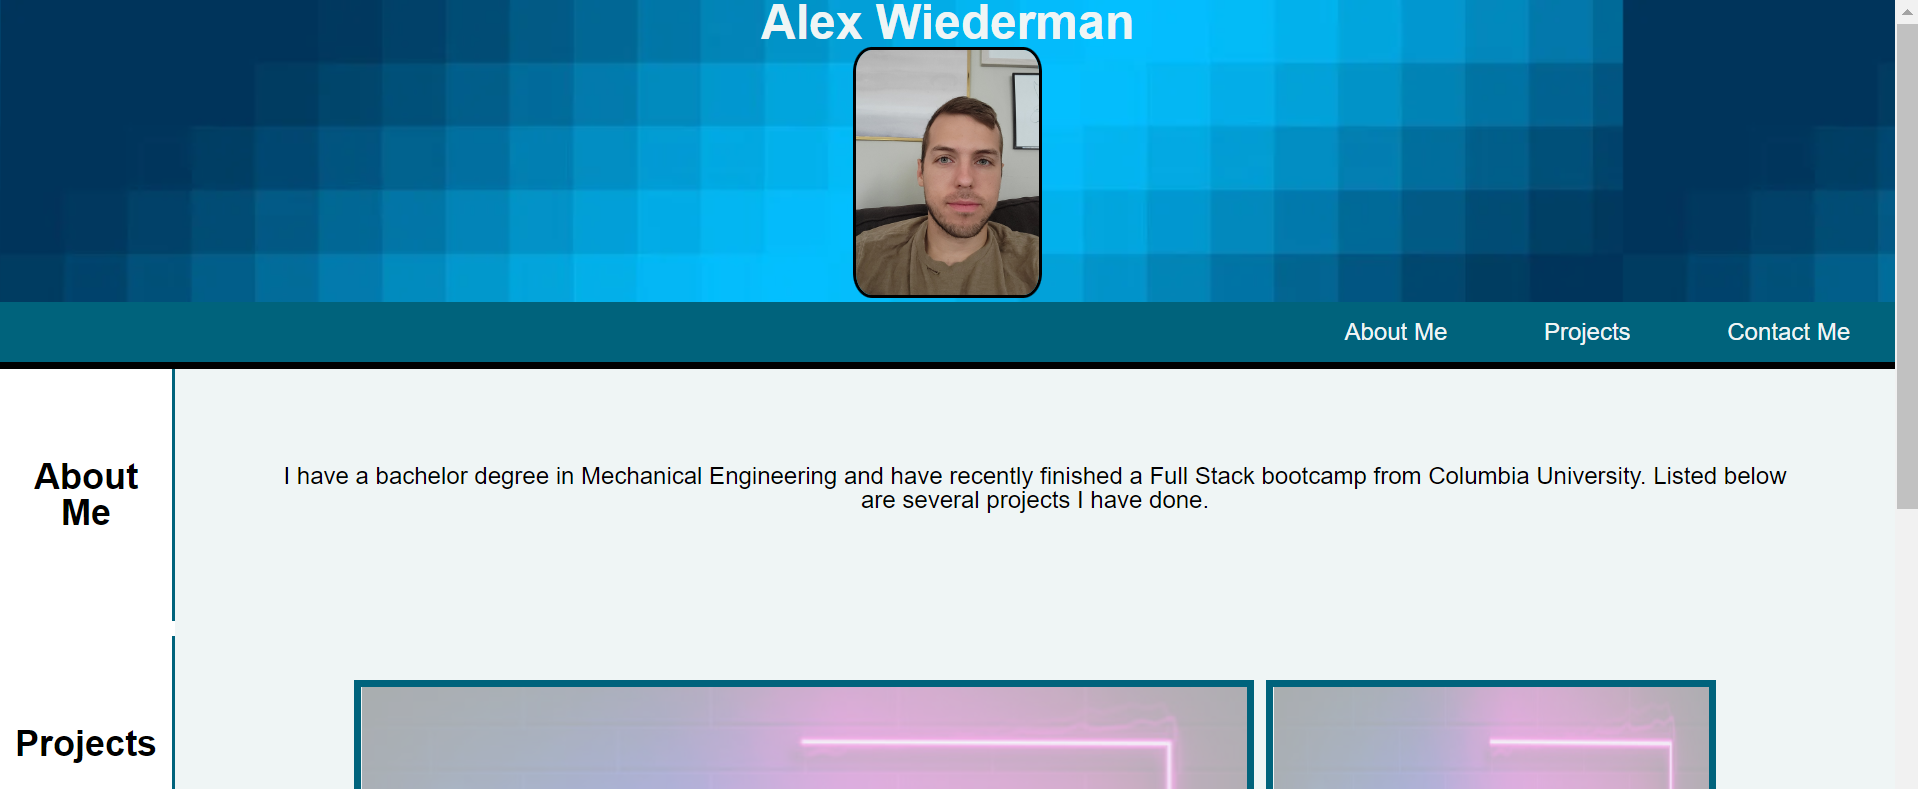
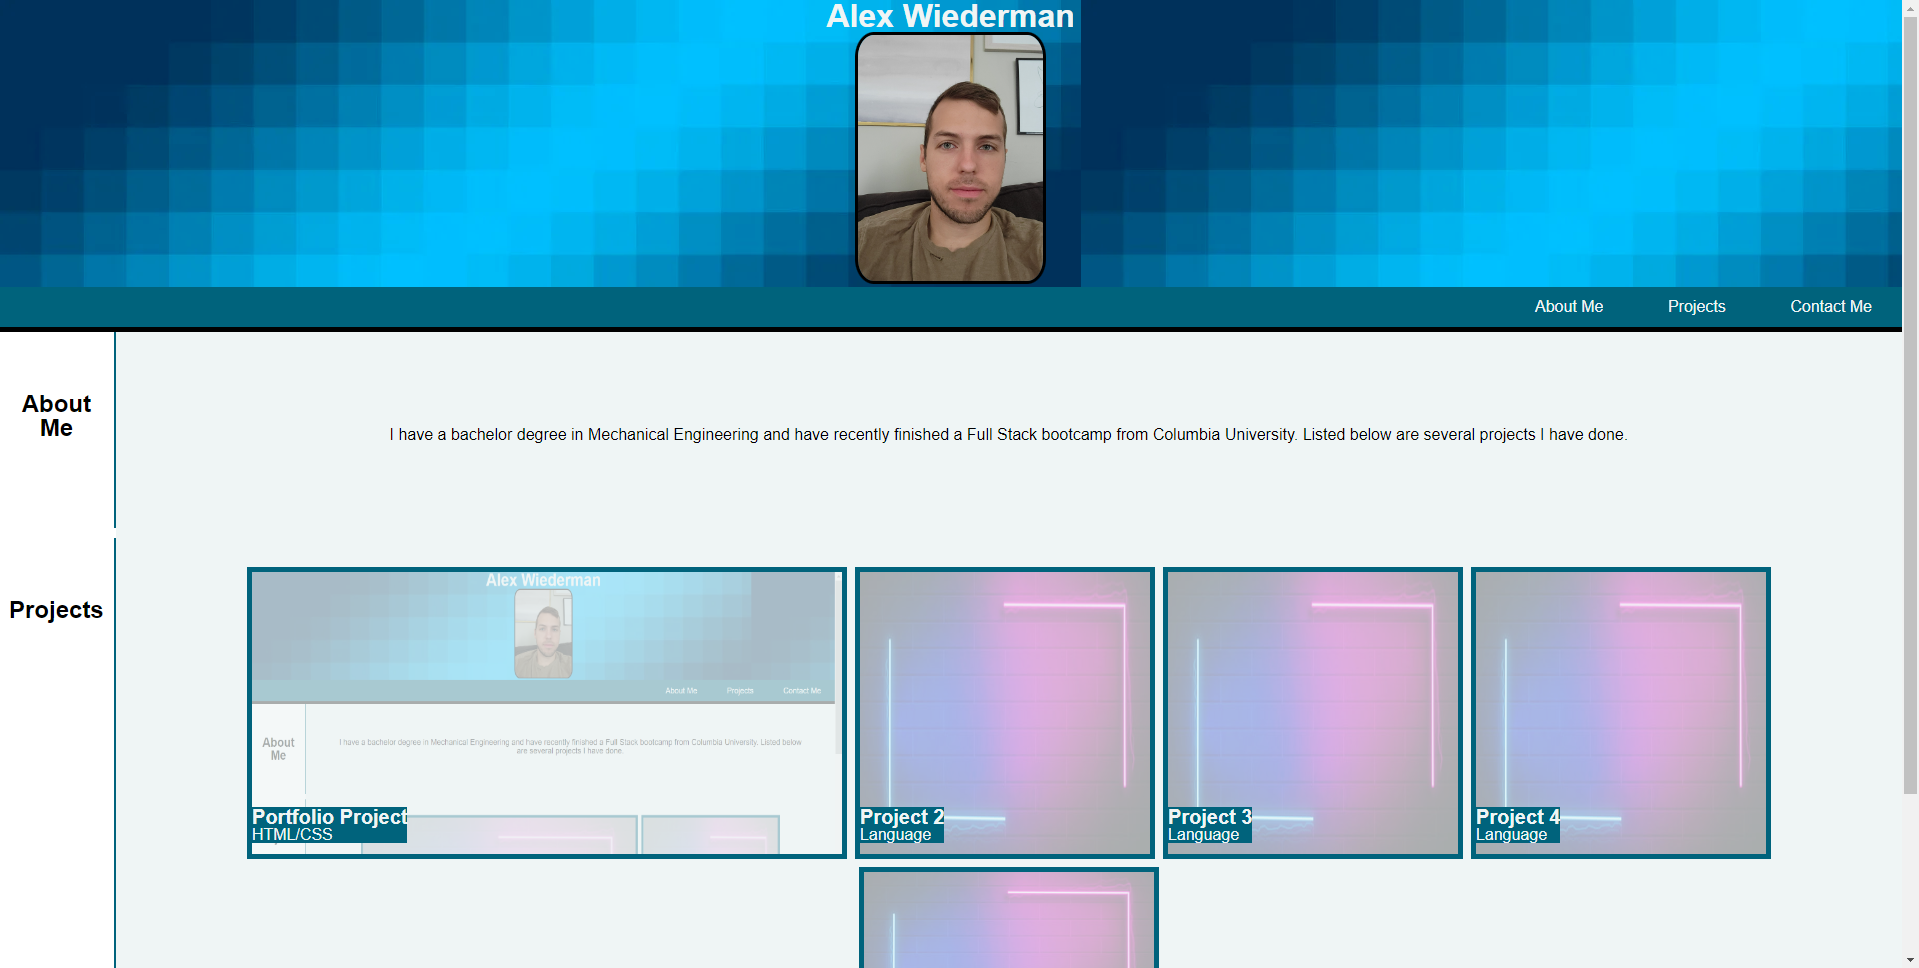
added project 1

diff --git a/index.html b/index.html
@@ -70,12 +70,12 @@
                 <!-- Need to replace links below with actual projects once done -->
 
                 <section class="container">
-                    <a href="https://github.com/AlexWiederman/mini-project">
-                    <img class="image-small" src="./assets/Images/background.jpg" alt="Project 2">
+                    <a href="https://github.com/AlexWiederman/Movie_Catalog">
+                    <img class="image-small" src="./assets/Images/project 1.PNG" alt="Project 2">
                     </a>
-                    <a href="https://github.com/AlexWiederman/mini-project">
+                    <a href="https://github.com/AlexWiederman/Movie_Catalog">
                     <div class="bottomleft">
-                        <h3>Project 2</h3>Language
+                        <h3>Movie Catalog</h3>HTML/CSS/JS/Bulma
                     </div>
                     </a>
                 </section>
